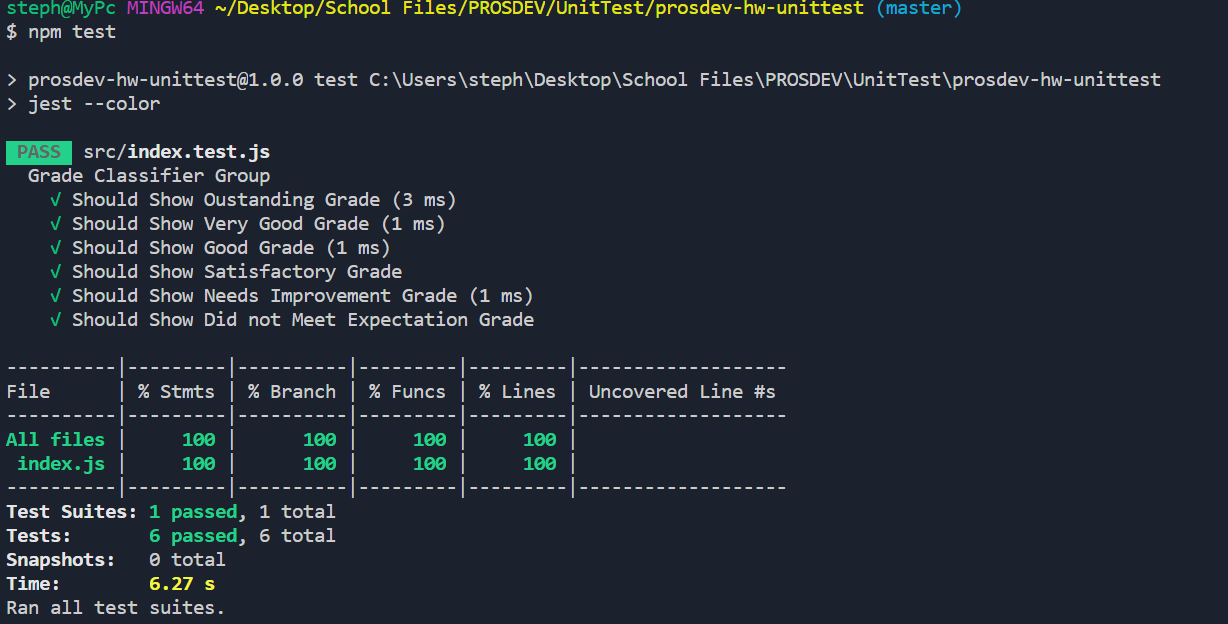
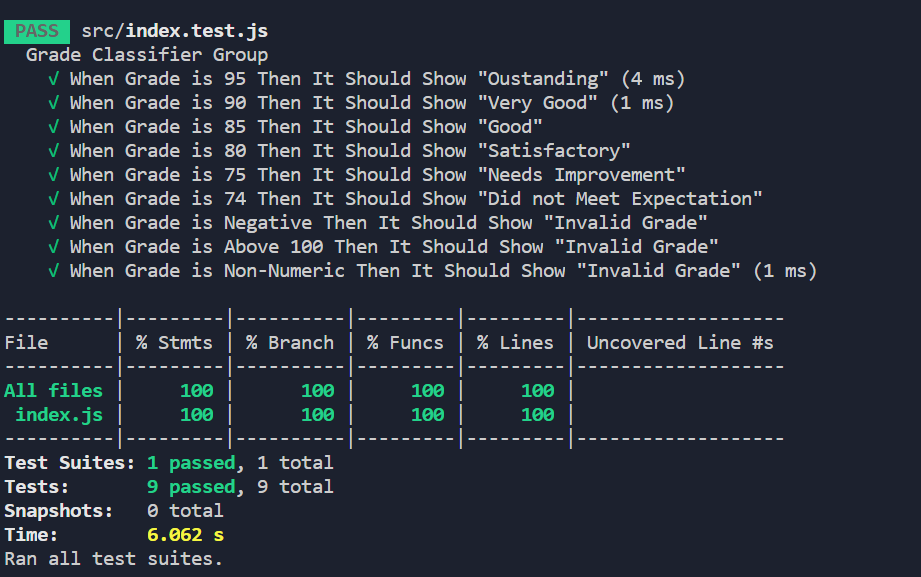
Added Addition Scenerios at the unit test

Changed region(s): [[0.0, 0.0, 0.9425, 0.9983], [0.8208, 0.4367, 0.8817, 0.4991]]

diff --git a/src/index.test.js b/src/index.test.js
@@ -1,46 +1,85 @@
 const { gradeClassifier } = require('./index');
 
 describe('Grade Classifier Group', () => {
-    it('Should Show Oustanding Grade', () => {
-        var grade = 96;
+    it('When Grade is 95 Then It Should Show "Oustanding"', () => {
+        var grade = 95;
         var expectedString = "O - Oustanding";
 
-        expect(gradeClassifier(grade)).toBe(expectedString)
+        var result = gradeClassifier(grade)
+
+        expect(result).toBe(expectedString)
     });
 
-    it('Should Show Very Good Grade', () => {
-        var grade = 92;
+    it('When Grade is 90 Then It Should Show "Very Good"', () => {
+        var grade = 90;
         var expectedString = "V - Very Good";
 
-        expect(gradeClassifier(grade)).toBe(expectedString)
+        var result = gradeClassifier(grade)
+
+        expect(result).toBe(expectedString)
     });
 
-    it('Should Show Good Grade', () => {
-        var grade = 87;
+    it('When Grade is 85 Then It Should Show "Good"', () => {
+        var grade = 85;
         var expectedString = "G - Good";
 
-        expect(gradeClassifier(grade)).toBe(expectedString)
+        var result = gradeClassifier(grade)
+
+        expect(result).toBe(expectedString)
     });
 
-    it('Should Show Satisfactory Grade', () => {
-        var grade = 84;
+    it('When Grade is 80 Then It Should Show "Satisfactory"', () => {
+        var grade = 80;
         var expectedString = "S - Satisfactory";
 
-        expect(gradeClassifier(grade)).toBe(expectedString)
+        var result = gradeClassifier(grade)
+
+        expect(result).toBe(expectedString)
     });
 
-    it('Should Show Needs Improvement Grade', () => {
-        var grade = 77;
+    it('When Grade is 75 Then It Should Show "Needs Improvement"', () => {
+        var grade = 75;
         var expectedString = "N - Needs Improvement";
 
-        expect(gradeClassifier(grade)).toBe(expectedString)
+        var result = gradeClassifier(grade)
+
+        expect(result).toBe(expectedString)
     });
 
-    it('Should Show Did not Meet Expectation Grade', () => {
-        var grade = 55;
+    it('When Grade is 74 Then It Should Show "Did not Meet Expectation"', () => {
+        var grade = 74;
         var expectedString = "D - Did not Meet Expectation";
 
-        expect(gradeClassifier(grade)).toBe(expectedString)
+        var result = gradeClassifier(grade)
+
+        expect(result).toBe(expectedString)
+    });
+
+    it('When Grade is Negative Then It Should Show "Invalid Grade"', () => {
+        var grade = 101;
+        var expectedString = "Invalid Grade";
+
+        var result = gradeClassifier(grade)
+
+        expect(result).toBe(expectedString)
+    });
+
+    it('When Grade is Above 100 Then It Should Show "Invalid Grade"', () => {
+        var grade = 101;
+        var expectedString = "Invalid Grade";
+
+        var result = gradeClassifier(grade)
+
+        expect(result).toBe(expectedString)
+    });
+
+    it('When Grade is Non-Numeric Then It Should Show "Invalid Grade"', () => {
+        var grade = "AI!@&^#* @$kdas";
+        var expectedString = "Invalid Grade";
+
+        var result = gradeClassifier(grade)
+
+        expect(result).toBe(expectedString)
     });
 });
 

diff --git a/src/index.js b/src/index.js
@@ -10,8 +10,10 @@ const functions = {
             return "S - Satisfactory";
         else if (grade < 80 && grade >= 75)
             return "N - Needs Improvement";
-        else
+        else if (grade < 75 && grade >= 0)
             return "D - Did not Meet Expectation";
+        else
+            return "Invalid Grade";
     }
 }
 
